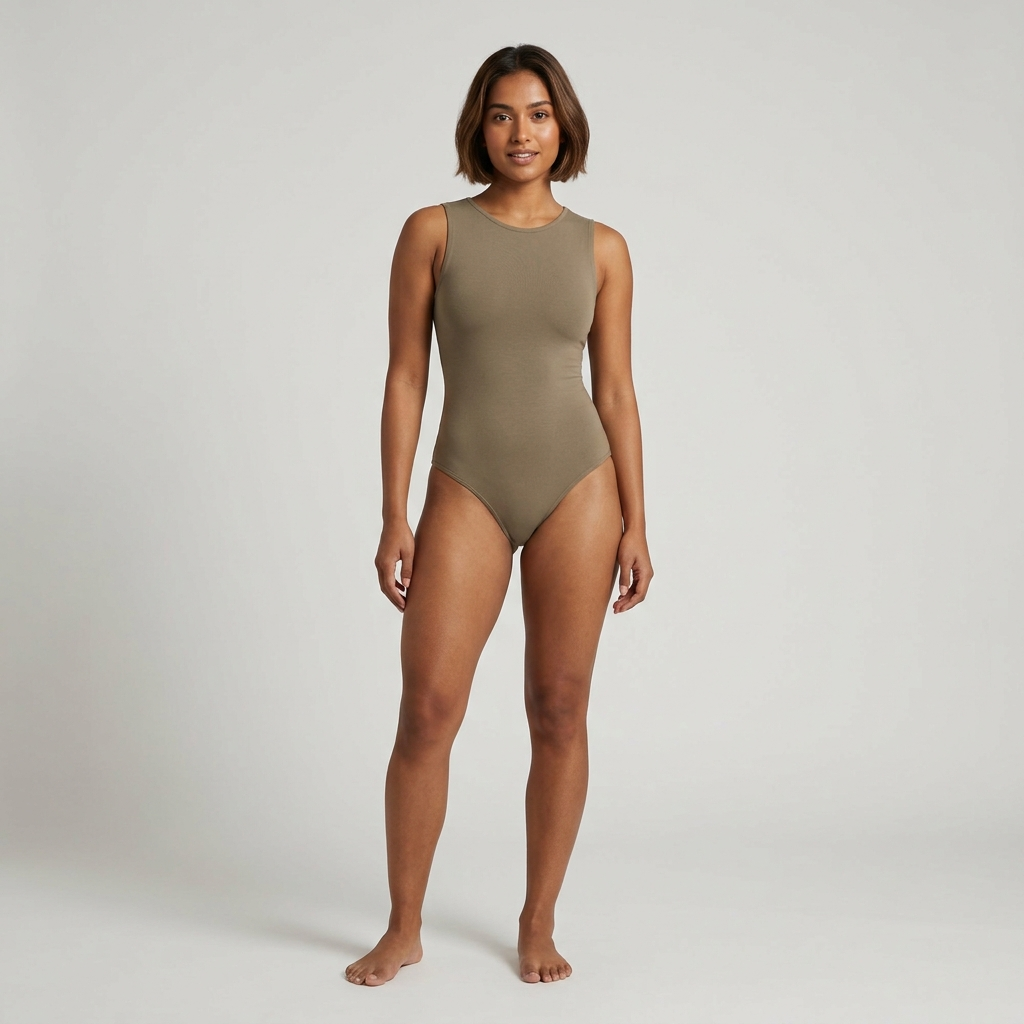
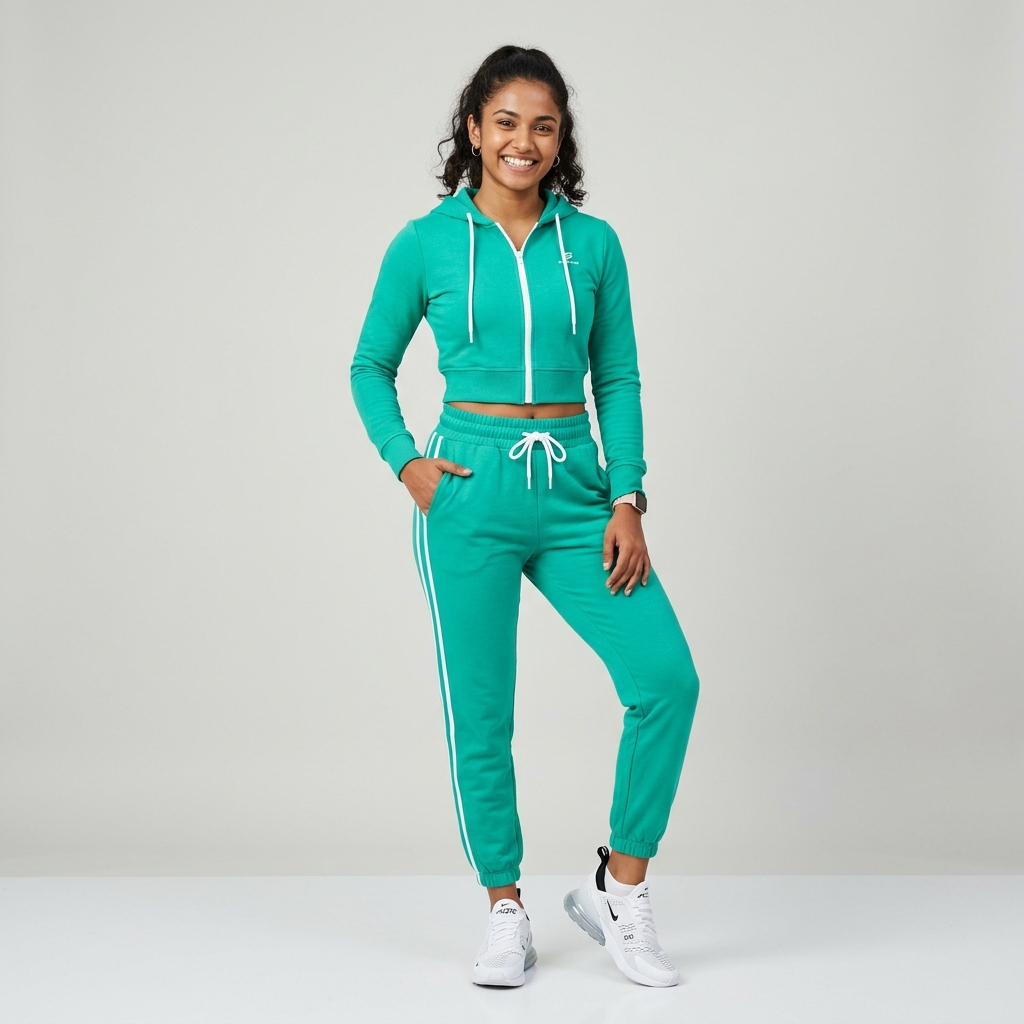
feat: update Happybuy model personas to full-body Sri Lankan models

Changed region(s): [[0.0, 0.0312, 0.6875, 1.0], [0.7812, 0.6562, 0.9375, 0.75]]

diff --git a/src/lib/persona-data.ts b/src/lib/persona-data.ts
@@ -9,9 +9,9 @@ export interface PersonaDef {
 
 export const PERSONAS_BY_BRAND: Record<string, PersonaDef[]> = {
   'Happybuy': [
-    { id: 'happybuy-1', label: 'Casual & Youthful', imageUrl: '/personas/happybuy_model_1.png', height: '5\'4" (162cm)', bodyShape: 'petite slim build', skinTone: 'light olive skin tone' },
-    { id: 'happybuy-2', label: 'Athletic Casual', imageUrl: '/personas/happybuy_model_2.png', height: '5\'6" (168cm)', bodyShape: 'athletic build', skinTone: 'warm medium brown skin tone' },
-    { id: 'happybuy-3', label: 'Curvy Casual', imageUrl: '/personas/happybuy_model_3.png', height: '5\'7" (170cm)', bodyShape: 'curvy build', skinTone: 'deep brown skin tone' }
+    { id: 'happybuy-1', label: 'Youthful & Bright', imageUrl: '/personas/happybuy_model_1.png', height: '5\'4" (162cm)', bodyShape: 'petite slim Sri Lankan build', skinTone: 'warm golden-tan skin tone' },
+    { id: 'happybuy-2', label: 'Active & Cheerful', imageUrl: '/personas/happybuy_model_2.png', height: '5\'6" (168cm)', bodyShape: 'athletic healthy Sri Lankan build', skinTone: 'medium tan skin tone' },
+    { id: 'happybuy-3', label: 'Curvy & Confident', imageUrl: '/personas/happybuy_model_3.png', height: '5\'7" (170cm)', bodyShape: 'curvy Sri Lankan build', skinTone: 'rich brown skin tone' }
   ],
   'Cleopatra': [
     { id: 'cleopatra-1', label: 'Statuesque Elegance', imageUrl: '/personas/cleopatra_model_1.png', height: '5\'10" (178cm)', bodyShape: 'very slim statuesque high-fashion build', skinTone: 'light golden skin tone' },
